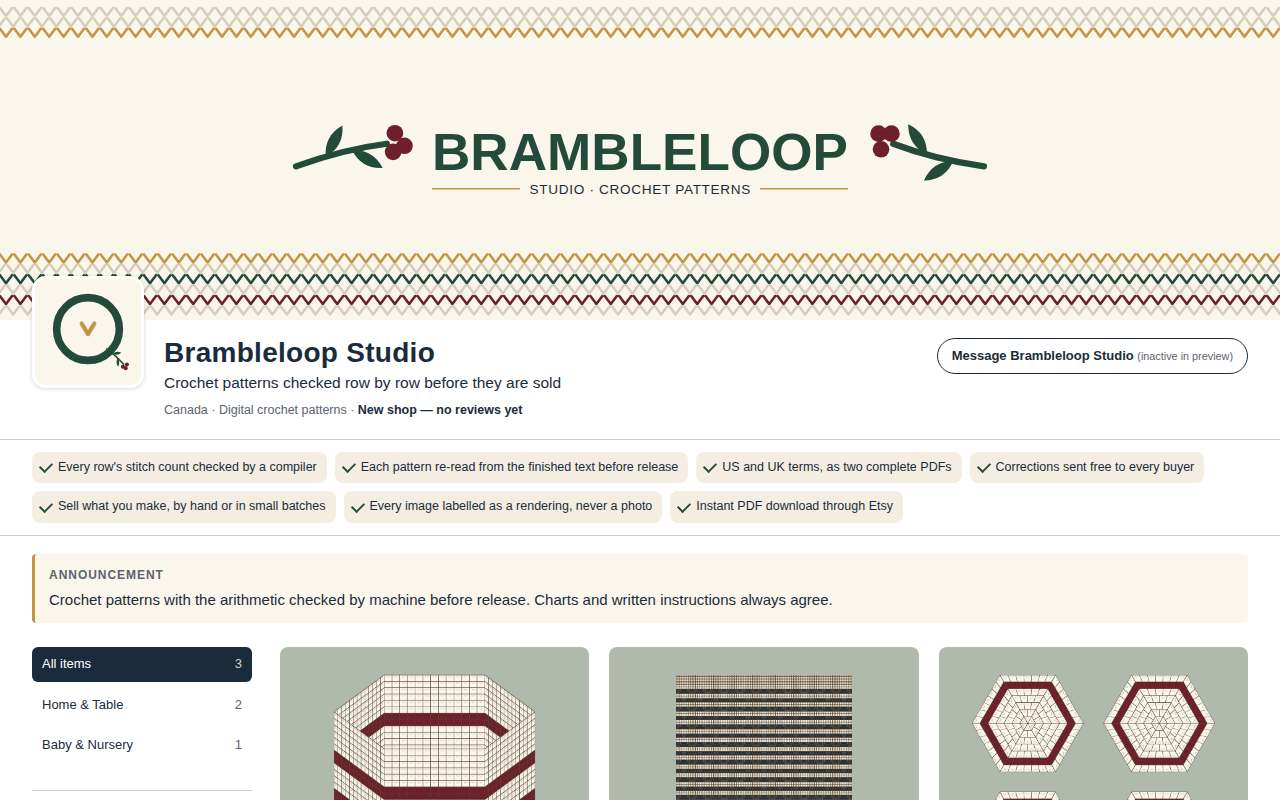
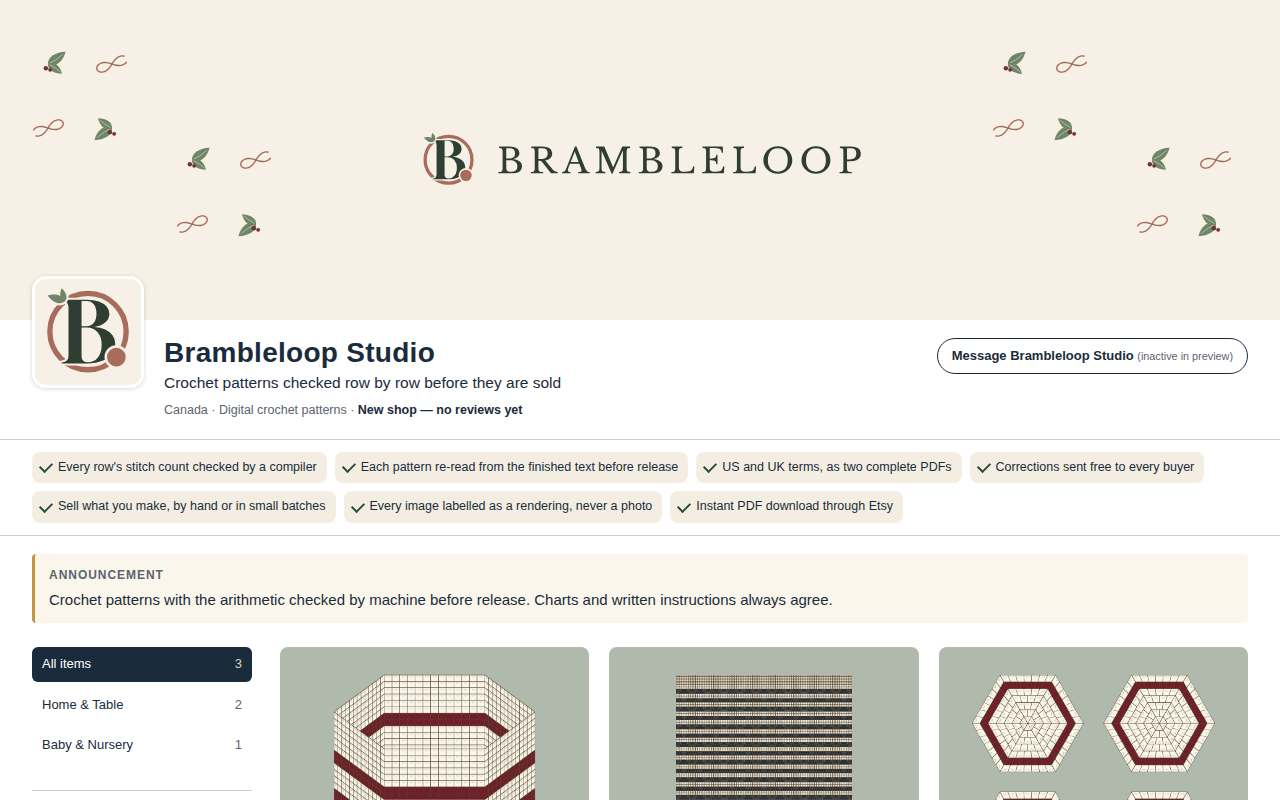
Store assets on lane A's identity; section limit from Etsy; preview v2 evidence and handoff
store_foundation.assets draws the shop icon and banner from brand.identity_system (icon,
horizontal lockup, motif wings, no Laura) with the legacy drawing as fallback, and the
palette check accepts identity_system.PALETTE (test_v11_store_foundation probe colour
swapped to #2F3E33, intent unchanged, at the integrator's request). The trust gate reads
Etsy's 24-character section-name limit from lane I. The preview board labels phone and
thumbnail crops as UNVERIFIED assumptions and the Laura crops as brand face, not the
account holder's profile photo. Evidence regenerated; handoff_B.md written.

Claude-Session: https://claude.ai/code/session_01GpoRAgr4kBWxi1752HufQh

diff --git a/brambleloop/src/brambleloop/store_foundation/assets.py b/brambleloop/src/brambleloop/store_foundation/assets.py
@@ -23,6 +23,34 @@ import re
 from ..brand import bible, storefront
 
 P = bible.PALETTE
+
+
+def _identity():
+    """Lane A's identity system (`brand.identity_system`), or None before it exists."""
+    try:
+        from ..brand import identity_system
+    except Exception:  # noqa: BLE001 - absent identity: the legacy drawing below is used
+        return None
+    return identity_system
+
+
+def palette_hexes() -> set[str]:
+    """Every colour the shop's assets may use: the bible plus the identity system's palette."""
+    out = {v.upper() for v in P.values()}
+    ident = _identity()
+    if ident is not None:
+        out |= {str(v).upper() for v in getattr(ident, "PALETTE", {}).values()}
+    return out
+
+
+def _mark_ground() -> tuple[tuple[int, int, int], tuple[int, int, int]]:
+    ident = _identity()
+    if ident is not None:
+        def rgb(h):
+            h = h.lstrip("#")
+            return tuple(int(h[i:i + 2], 16) for i in (0, 2, 4))
+        return rgb(ident.PALETTE["forest"]), rgb(ident.PALETTE["paper"])
+    return bible.rgb255("pine"), bible.rgb255("cream")
 ICON_W, ICON_H = storefront.ICON_SIZE
 BANNER_W, BANNER_H = storefront.BANNER_SIZE
 WORDMARK_BOX = storefront.BANNER_WORDMARK_BOX
@@ -72,7 +100,16 @@ def _sprig(cx: float, cy: float, scale: float, angle_deg: float) -> str:
 
 
 def icon_svg() -> str:
-    """The shop icon: a closed loop of yarn holding one stitch, a bramble sprig growing from
+    """The shop icon: lane A's chosen mark (`identity_system.icon_svg()`, outlined, no live
+    text) when the identity system exists; otherwise the legacy loop-and-bramble drawing."""
+    ident = _identity()
+    if ident is not None:
+        return ident.icon_svg()
+    return _legacy_icon_svg()
+
+
+def _legacy_icon_svg() -> str:
+    """The v1 icon: a closed loop of yarn holding one stitch, a bramble sprig growing from
     its lower right. No text."""
     pine, gold, cream = P["pine"], P["gold"], P["cream"]
     ring = (f'<circle cx="250" cy="236" r="148" fill="none" stroke="{pine}" '
@@ -104,8 +141,41 @@ def _stitch_rows(y0: float, rows: int, colours: list[str], pitch: float = 18.0,
     return "".join(paths)
 
 
+def _inner(svg: str, x: float, y: float, w: float, h: float) -> str:
+    """Place a standalone SVG inside another at (x, y, w, h), keeping its viewBox."""
+    m = re.search(r"<svg\b([^>]*)>", svg)
+    vb = re.search(r'viewBox="([^"]+)"', m.group(1)).group(1)
+    body = svg[m.end():svg.rindex("</svg>")]
+    return (f'<svg x="{_f(x)}" y="{_f(y)}" width="{_f(w)}" height="{_f(h)}" viewBox="{vb}" '
+            f'preserveAspectRatio="xMidYMid meet">{body}</svg>')
+
+
 def banner_svg() -> str:
-    """The shop banner: crochet fabric bands top and bottom, the wordmark centred in its box."""
+    """The shop banner. With lane A's identity system: the horizontal lockup centred in
+    `WORDMARK_BOX` on paper, the bramble motif in the wings only (outside the phone crop),
+    no Laura (her imagery is not publication-approved). Otherwise the legacy drawing."""
+    ident = _identity()
+    if ident is None:
+        return _legacy_banner_svg()
+    x0, y0, x1, y1 = WORDMARK_BOX
+    lock = ident.lockup_horizontal_svg(transparent=True)
+    vb = [float(v) for v in re.search(r'viewBox="([^"]+)"', lock).group(1).split()]
+    lw = x1 - x0
+    lh = lw * vb[3] / vb[2]
+    ly = (y0 + y1) / 2 - lh / 2
+    motif = ident.motif_svg(transparent=True)
+    wings = "".join(_inner(motif, x, 40 + (i % 2) * 120, 160, 160)
+                    for i, x in enumerate((20, 200, BANNER_W - 380, BANNER_W - 200)))
+    ground = ident.PALETTE["paper"]
+    return (f'<svg xmlns="http://www.w3.org/2000/svg" width="{BANNER_W}" height="{BANNER_H}" '
+            f'viewBox="0 0 {BANNER_W} {BANNER_H}" role="img" '
+            f'aria-label="{WORDMARK} · Brambleloop Studio banner">'
+            f'<rect width="{BANNER_W}" height="{BANNER_H}" fill="{ground}"/>'
+            f'{wings}{_inner(lock, x0, ly, lw, lh)}</svg>')
+
+
+def _legacy_banner_svg() -> str:
+    """The v1 banner: crochet fabric bands top and bottom, the wordmark centred in its box."""
     x0, y0, x1, y1 = WORDMARK_BOX
     mid = (x0 + x1) / 2
     word_w = (x1 - x0) - 40
@@ -142,7 +212,7 @@ def colours_used(svg: str) -> set[str]:
 def check_icon(svg: str | None = None) -> list[dict]:
     svg = svg if svg is not None else icon_svg()
     out: list[dict] = []
-    off = colours_used(svg) - {v.upper() for v in P.values()}
+    off = colours_used(svg) - palette_hexes()
     if off:
         out.append({"code": "ASSET_OFF_PALETTE", "severity": "fail",
                     "detail": f"icon uses colours outside the brand palette: {sorted(off)}"})
@@ -151,8 +221,7 @@ def check_icon(svg: str | None = None) -> list[dict]:
                     "detail": "the icon brief forbids text: it is illegible at 40 px"})
     if (ICON_W, ICON_H) != storefront.ICON_SIZE or ICON_W != ICON_H:
         out.append({"code": "ICON_NOT_SQUARE", "severity": "fail", "detail": "icon not square"})
-    contrast = bible.contrast_ratio(*(tuple(c / 255 for c in bible.rgb255(n))
-                                      for n in ("pine", "cream")))
+    contrast = bible.contrast_ratio(*(tuple(c / 255 for c in rgb) for rgb in _mark_ground()))
     if contrast < 3.0:
         out.append({"code": "ICON_LOW_CONTRAST", "severity": "fail",
                     "detail": f"mark/ground contrast {contrast:.2f}:1 under 3:1"})
@@ -172,7 +241,7 @@ def check_banner(svg: str | None = None) -> list[dict]:
 
     svg = svg if svg is not None else banner_svg()
     out: list[dict] = []
-    off = colours_used(svg) - {v.upper() for v in P.values()}
+    off = colours_used(svg) - palette_hexes()
     if off:
         out.append({"code": "ASSET_OFF_PALETTE", "severity": "fail",
                     "detail": f"banner uses colours outside the brand palette: {sorted(off)}"})
@@ -180,8 +249,7 @@ def check_banner(svg: str | None = None) -> list[dict]:
     for name, c in crops.items():
         for p in c["problems"]:
             out.append({"code": "BANNER_CROP", "severity": "fail", "detail": p})
-    contrast = bible.contrast_ratio(*(tuple(c / 255 for c in bible.rgb255(n))
-                                      for n in ("pine", "cream")))
+    contrast = bible.contrast_ratio(*(tuple(c / 255 for c in rgb) for rgb in _mark_ground()))
     if contrast < bible.MIN_TEXT_CONTRAST:
         out.append({"code": "BANNER_WORDMARK_CONTRAST", "severity": "fail",
                     "detail": f"wordmark contrast {contrast:.2f}:1"})
@@ -206,5 +274,6 @@ def describe() -> dict:
                    "bytes": len(banner), "size": [BANNER_W, BANNER_H],
                    "colours": sorted(colours_used(banner)),
                    "crops": sp.banner_crops(box=WORDMARK_BOX, size=(BANNER_W, BANNER_H))},
-        "basis": "deterministic SVG from brand.bible.PALETTE; no image model, no spend",
+        "basis": ("deterministic SVG from brand.identity_system (lane A) when present, else "
+                  "brand.bible.PALETTE; no image model, no spend"),
     }

diff --git a/brambleloop/src/brambleloop/store_foundation/preview_v2.py b/brambleloop/src/brambleloop/store_foundation/preview_v2.py
@@ -598,7 +598,7 @@ def _board(ctx: dict, now: datetime) -> str:
         f'<figure class="bnwrap" style="width:640px">{_banner(ctx, mode="desktop")}Desktop: '
         f'whole canvas {gw[0]}×{gw[1]}</figure>'
         f'<figure class="bnwrap" style="width:390px">{_banner(ctx, mode="phone")}Phone 390 px: '
-        f'centre crop {g["phone"]:.2f}:1</figure>'
+        f'centre crop {g["phone"]:.2f}:1 (UNVERIFIED assumption)</figure>'
         f'<figure class="bnwrap" style="width:320px">{_banner(ctx, mode="phone")}Small phone '
         f'320 px (awkward crop check)</figure>')
     seasonal = (
@@ -627,8 +627,8 @@ def _board(ctx: dict, now: datetime) -> str:
             f'var(--r-{first})" role="img" aria-label="Digital rendering, {r} crop"></div>{r} '
             f'({why})</figure>'
             for w, h, r, why in ((140, 140, "square", "shop grid"),
-                                 (140, 105, "landscape 4:3", "Etsy ratio UNKNOWN"),
-                                 (112, 140, "portrait 4:5", "Etsy ratio UNKNOWN")))
+                                 (140, 105, "landscape 4:3", "ratio UNVERIFIED assumption: Etsy does not publish it"),
+                                 (112, 140, "portrait 4:5", "ratio UNVERIFIED assumption: Etsy does not publish it")))
     gates = "".join(f'<tr><td>{_esc(x["gate"])}</td><td class="{"ok" if x["status"] == "PASS" else "bad"}">'
                     f'{_esc(x["status"])}</td><td>{_esc(x["why"])}</td></tr>'
                     for x in brand_face.gate_chain())
@@ -652,12 +652,12 @@ def _board(ctx: dict, now: datetime) -> str:
         f'banner concept guided the direction; it is not embedded (its woman is not verified '
         f'as Laura).</p>'
         f'<h3>Sources</h3><table><tbody>{srcs}</tbody></table>'
-        f'<h3>Logo and icon at real sizes</h3><div class="row">{icons}</div>'
+        f'<h3>Logo and icon at real sizes</h3><p>Upload: a 500×500 square PNG (Etsy: logo at least 500×500, recommended 500×500; VERIFIED by lane I). The mark sits inside the central circle, so a circular crop loses nothing.</p><div class="row">{icons}</div>'
         f'<div class="row dark">{icons}<span>Dark surround (app dark mode)</span></div>'
         f'<h3>Banner: desktop and phone crops</h3><div class="row">{banners}</div>'
         f'<p>{_esc(ctx["spec_src"].value["basis"])}. Laura and the lockup sit inside the phone '
         f'window; the product renders sit in the desktop-only wings.</p>'
-        f'<h3>Laura portrait crops (brand face; seller-photo use is owner-gated)</h3><div class="row">{seller}</div>'
+        f'<h3>Laura brand-face crops (banner/About). Not proposed for Etsy\'s profile photo, which belongs to the account holder (lane I checklist B3)</h3><div class="row">{seller}</div>'
         f'<h3>Listing cards at grid size, light and dark</h3><div class="row">{dark_cards}</div>'
         f'<div class="row dark">{dark_cards}</div>'
         f'<h3>Awkward crops of a listing image</h3><div class="row">{crops}</div>'

diff --git a/brambleloop/src/brambleloop/store_foundation/storefront_gate.py b/brambleloop/src/brambleloop/store_foundation/storefront_gate.py
@@ -39,6 +39,7 @@ ICON_COVERAGE = (0.08, 0.70)
 ICON_MIN_STROKE_PX = 2
 PHONE_WIDTH = 390
 LOCKUP_MIN_PHONE_PX = 96          # the wordmark is about a sixth of the stacked lockup: >= 16 px
+SECTION_NAME_MAX = 24            # Etsy help centre via lane I (integrations.etsy_constraints)
 ABOUT_MIN = 400                   # brand.storefront.ABOUT_MIN
 PRODUCT_NOUNS = ("basket", "blanket", "coaster", "cardigan", "sweater", "jumper", "hat",
                  "beanie", "scarf", "shawl", "bag", "tote", "amigurumi", "toy", "pillow",
@@ -260,12 +261,21 @@ def check_sections(db=None) -> tuple[list[dict], dict]:
     out: list[dict] = []
     secs = s["sections"].value
     shown = [x for x in secs if x["shown"]]
+    limit, basis = SECTION_NAME_MAX, "fallback"
+    cons = getattr(S._import("brambleloop.integrations.etsy_constraints"), "CONSTRAINTS", None)
+    if isinstance(cons, dict) and "section_name_max_chars" in cons:
+        limit = int(cons["section_name_max_chars"].value)
+        basis = cons["section_name_max_chars"].basis
     if not shown:
         out.append(_f("F-237", "STORE_NO_SECTIONS_SHOWN", "no section is shown"))
     for x in secs:
-        if INTERNAL_SECTION.search(x["name"]) or x["name"].isupper() or len(x["name"]) > 30:
+        if INTERNAL_SECTION.search(x["name"]) or x["name"].isupper():
             out.append(_f("F-237", "STORE_SECTION_NAME_INTERNAL",
                           f"section {x['name']!r} does not read as a buyer browses"))
+        if len(x["name"]) > limit:
+            out.append(_f("F-237", "STORE_SECTION_NAME_TOO_LONG",
+                          f"section {x['name']!r} is {len(x['name'])} characters; Etsy allows "
+                          f"{limit} ({basis})"))
         if x["shown"] and not x["listings"]:
             out.append(_f("F-237", "STORE_SECTION_EMPTY_SHOWN", f"{x['name']!r} is shown empty"))
     return out, {"sections": [x["name"] for x in shown]}

diff --git a/brambleloop/tests/test_v11_store_foundation.py b/brambleloop/tests/test_v11_store_foundation.py
@@ -174,14 +174,15 @@ def test_assets_deterministic_on_palette():
     assert assets.banner_svg() == assets.banner_svg()
     from brambleloop.brand import bible
 
-    palette = {v.upper() for v in bible.PALETTE.values()}
+    # brand palette = the bible plus lane A's identity_system.PALETTE (wave 3)
+    palette = {v.upper() for v in bible.PALETTE.values()} | assets.palette_hexes()
     assert assets.colours_used(assets.icon_svg()) <= palette
     assert assets.colours_used(assets.banner_svg()) <= palette
     assert "<text" not in assets.icon_svg()
     assert "BRAMBLELOOP" in assets.banner_svg()
     for svg_check in (assets.check_icon(), assets.check_banner()):
         assert not [f for f in svg_check if f["severity"] == "fail"], svg_check
-    bad = assets.check_icon(assets.icon_svg().replace("#244A3A", "#FF00FF"))
+    bad = assets.check_icon(assets.icon_svg().replace("#2F3E33", "#FF00FF"))
     assert any(f["code"] == "ASSET_OFF_PALETTE" for f in bad)
     assert any(f["code"] == "ICON_HAS_TEXT" for f in assets.check_icon(
         assets.icon_svg().replace("</svg>", "<text>B</text></svg>")))

diff --git a/brambleloop/tests/test_w3_store_ux_gate.py b/brambleloop/tests/test_w3_store_ux_gate.py
@@ -139,6 +139,23 @@ def test_sections_read_as_a_buyer_browses():
     assert G.INTERNAL_SECTION.search("Misc")
     assert not G.INTERNAL_SECTION.search("Home & Table")
     assert not G.INTERNAL_SECTION.search("Baby & Nursery")
+    assert G.SECTION_NAME_MAX == 24                 # Etsy: "up to 24 characters"
+    from brambleloop.store_foundation import content as C
+
+    real = C.build
+
+    def long_names(db=None, **kw):
+        out = real(db, **kw)
+        out["sections"].value[0] = dict(out["sections"].value[0],
+                                        name="Blankets, Throws and Cosy Afghans")
+        return out
+
+    C.build = long_names
+    try:
+        f, _ = G.check_sections()
+    finally:
+        C.build = real
+    assert "STORE_SECTION_NAME_TOO_LONG" in {x["code"] for x in f}, f
     f, info = G.check_sections()
     assert info["sections"]
     assert not [x for x in f if x["code"] == "STORE_SECTION_NAME_INTERNAL"], f

diff --git a/brambleloop/research/final_build/w3/handoff_B.md b/brambleloop/research/final_build/w3/handoff_B.md
@@ -1,8 +1,9 @@
 # Wave 3 lane B handoff: store UX / art direction (Owner Store Preview v2) and K2 trust gate
 
 Branch `claude/w3-B` (base `claude/v11-CANON` f0c2d12). It merges lane C (`claude/w3-C`,
-copy_v2), lane I (`claude/w3-I`, etsy_constraints) and lane A (`claude/w3-A`,
-identity_system) as they stood when merged. No peer file was edited. Nothing was pushed or
+copy_v2), lane I (`claude/w3-I`, etsy_constraints), lane A (`claude/w3-A`, identity_system)
+and then `claude/visual-investigation` (the integrator's head with A's D1 "Briar Monogram"
+and I's verified constraints) as they stood when merged. No peer file was edited. Nothing was pushed or
 published, and no paid call was made.
 
 ## What was built
@@ -31,15 +32,51 @@ published, and no paid call was made.
 | F-233 Storefront completion | FAIL (honest) | `STORE_BANNER_NOT_EXPORTED`: no 1600x400 raster banner exists for upload. Icon passes at 40 and 70 px on lane A's raster: contrast 3.58 and 4.16, coverage about 0.3, stroke at least 16 px. Lockup measures about 141 px tall on a 390 px phone. Copy is from lane C. |
 | F-234 Shop trust architecture | PASS | Every one of these is present: what is sold, the PDF, delivery, skill, the support path and returns. The render disclosure is present and the copy states no social-proof figures. |
 | F-235 About / process | PASS | 400 characters or more, truth-lint clean, and Laura is disclosed as an AI. |
-| F-237 Section architecture | PASS | Buyer-facing names. No empty section is shown. |
+| F-237 Section architecture | PASS | Buyer-facing names, each at most 24 characters (Etsy's limit, read from lane I's constraints). No empty section is shown. |
 | F-263 Ads readiness | FAIL | Inherits every storefront finding: traffic may not be bought to an unfinished shop. |
 | F-279 Storefront-to-listing continuity | PASS | Every product the announcement names is in the grid. The banner line is the shop's own copy. The seasonal banner stays preview-only until seasonal listings exist. |
 
 If a peer is missing, the gate fails closed (`STORE_ICON_NOT_RENDERED`, `STORE_BANNER_NOT_RENDERED`, `STORE_COPY_INTERIM`).
 
-## Measured improvement (Chromium/Playwright, `research/final_build/w3/evidence/B_metrics.json`)
+## Runtime proof: measured improvement (Chromium/Playwright, 2026-10-06T14:45:38Z, `evidence/B_metrics.json`)
 
-See the table in "Runtime proof" below. Every number comes from the committed JSON.
+The first screen is measured below the preview bar: 390×844 on a phone, 1280×800 on desktop. Preview labels are excluded from the word count.
+
+| Metric | v1 phone | v2 phone | v1 desktop | v2 desktop |
+|---|---|---|---|---|
+| Technical terms on the first screen | 7 | **0** | 7 | **0** |
+| Words on the first screen | 94 | **74** | 105 | **61** |
+| Image share of the first screen (%) | 20.2 | **28.6** | 15.2 | **34.4** |
+| Tap targets under 44 px | 23 of 23 | **0 of 25** | 23 of 23 | **0 of 25** |
+| Shop name size / body size | 1.63 | **2.0** | 2.24 | **2.57** |
+| Distinct text sizes | 8 | **5** | 7 | 9 (banner art) |
+| Lowest text contrast | 5.6:1 | **6.31:1** | 5.6:1 | **6.31:1** |
+| Horizontal overflow | 0 | 0 | 0 | 0 |
+
+Static metrics (computed on each load of the compare page): technical terms on the whole shop page fall from 18 to 7. The remaining 7 are lane C's own words deep in About and FAQ ("verified before release", "checked row by row"), which the owner directive allows below the fold.
+
+Evidence images in `research/final_build/w3/evidence/` (8 JPEGs, 37-181 KB each):
+- B_v1_mobile_top and B_v2_mobile_top
+- B_v1_desktop_top and B_v2_desktop_top
+- B_v2_mobile_about and B_v2_desktop_about
+- B_v2_desktop_board
+- B_compare_desktop
+
+Regenerate with `PYTHONPATH=src .venv/bin/python scripts/w3_store_preview_evidence.py`.
+
+## Tests (focused; run with /home/user/Project-Money/brambleloop/.venv/bin/python, PYTHONPATH=src)
+
+| Test | OK | FAIL |
+|---|---|---|
+| tests/test_w3_store_ux_structure.py (new) | 16 | 0 |
+| tests/test_w3_store_ux_mobile.py (new) | 8 | 0 |
+| tests/test_w3_store_ux_gate.py (new) | 9 | 0 |
+| tests/test_v11_store_preview.py | 13 | 0 |
+| tests/test_v11_store_foundation.py | 20 | 0 |
+| tests/test_canon_store_brand_face.py | 11 | 0 |
+| tests/test_w3_etsy_constraints.py (lane I, after merge) | 17 | 0 |
+
+I did not run the full suite, per the machine limits. Rendering takes about 13 s per process because the Launch-0 hero frames are rendered and verified.
 
 ## Files
 
@@ -51,7 +88,10 @@ New (lane B):
 - `tests/test_w3_store_ux_structure.py`, `tests/test_w3_store_ux_mobile.py`, `tests/test_w3_store_ux_gate.py`
 - `research/final_build/w3/evidence/B_*` (8 JPEGs, each 300 KB or less, plus B_metrics.json)
 
-Modified (lane B owned): `src/brambleloop/store_foundation/preview.py`. It adds the `v2` and `compare` variants and a dispatch. The v1 `standard` and `brand_face` output is unchanged and still the default.
+Modified:
+- `src/brambleloop/store_foundation/preview.py` (lane B). Adds the `v2` and `compare` variants and a dispatch. The v1 `standard` layout is unchanged and still the default.
+- `src/brambleloop/store_foundation/assets.py`, done at the integrator's request on lane A's behalf. `icon_svg()` is now `identity_system.icon_svg()`. `banner_svg()` is A's horizontal lockup in `WORDMARK_BOX` on paper, with motif wings and no Laura. The palette check is widened to `identity_system.PALETTE`. The legacy drawings remain as fallbacks. Consequence: the v1 baseline page now shows the D1 icon and banner, so the compare page's "v1" is v1's *layout and copy* with today's mark.
+- `tests/test_v11_store_foundation.py`, at the integrator's request with the intent unchanged. In the off-palette probe, `#244A3A` becomes `#2F3E33`, and the palette assertion is widened to include `assets.palette_hexes()`.
 
 ## WIRING REQUESTS
 
@@ -62,7 +102,7 @@ Modified (lane B owned): `src/brambleloop/store_foundation/preview.py`. It adds 
        problems.extend(storefront_gate.problems())
    ```
    Expect `shop_complete` / launch readiness to FAIL on `STORE_BANNER_NOT_EXPORTED` until item 2 lands. That failure is intended.
-2. **Lane A, `brand/identity_system.py`**: add `banner_png(width=1600, height=400, tagline=None) -> bytes`. It should be the stacked lockup on paper with motif wings and no Laura (Laura is not publication-approved). The gate already looks for `identity_system.banner_png`.
+2. **Lane A, `brand/identity_system.py`** (or whoever owns raster export): add `banner_png(width=1600, height=400, tagline=None) -> bytes`. It should be the stacked lockup on paper with motif wings and no Laura (Laura is not publication-approved). The gate already looks for `identity_system.banner_png`.
 3. **Lane F, `app/command_center/api.py::store_preview_handler`**: pass the variant through:
    ```python
    def owner_store_preview(request: Request, viewport: str = "mobile", variant: str = "v2"):
